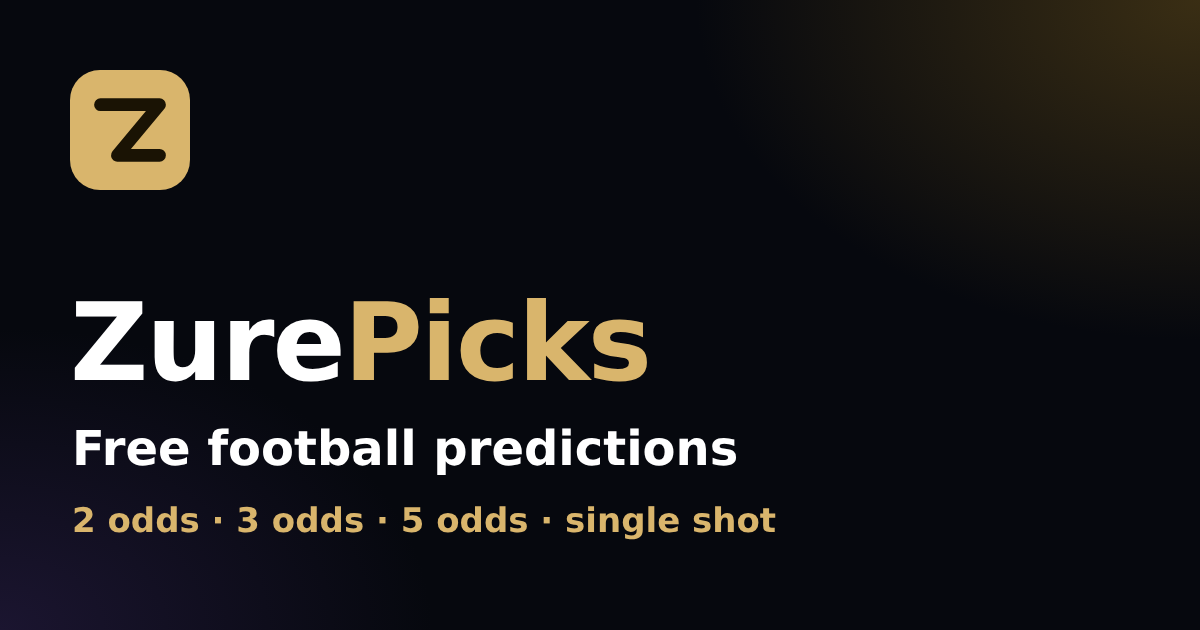
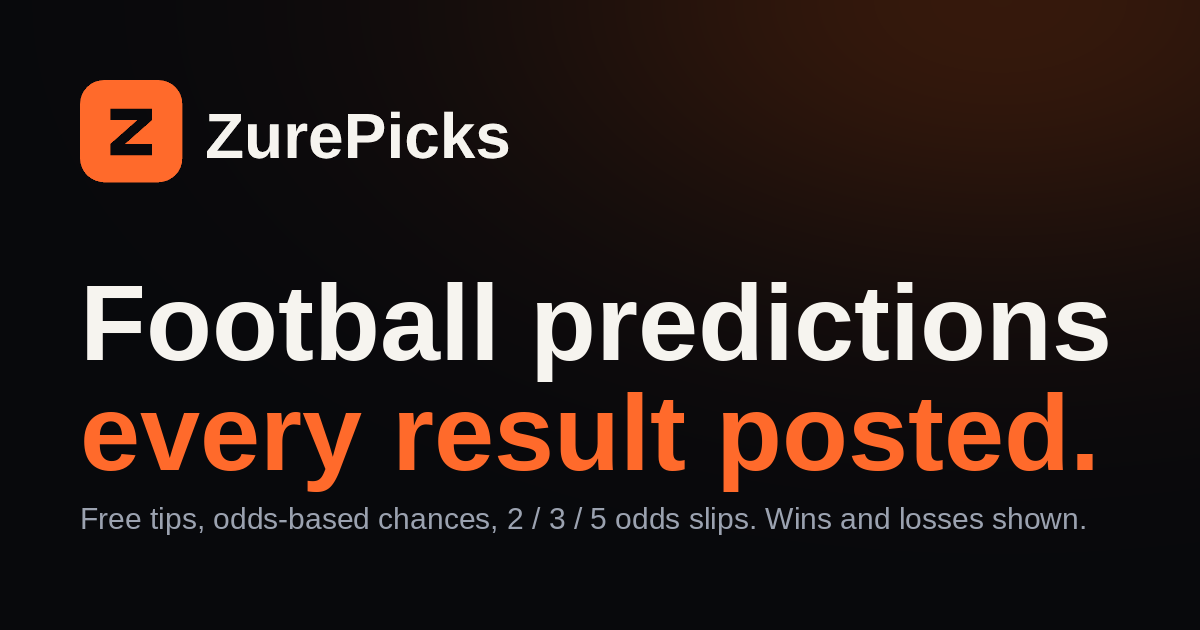
Add files via upload

diff --git a/zp.css b/zp.css
@@ -934,59 +934,106 @@ main.dayp .hero .kp>div{background:rgba(255,255,255,.04)!important;border:1px so
 main.dayp .hero .kp b{color:var(--g)!important;-webkit-text-fill-color:var(--g)!important;background:none!important}
 main.dayp .hero .kp>div.lv b{color:var(--no)!important;-webkit-text-fill-color:var(--no)!important}
 
-/* v9: landing top rebuilt: open hero, versus match card, one stat strip, no second Telegram logo */
-main.dayp .hero{background:radial-gradient(120% 90% at 0% 0%,rgba(46,240,162,.16),transparent 55%),radial-gradient(90% 80% at 100% 10%,rgba(124,92,255,.18),transparent 60%)!important;border:0!important;border-radius:0 0 28px 28px!important;box-shadow:none!important;padding:1.1rem 0 1.2rem!important;margin:0 -16px!important;padding-left:16px!important;padding-right:16px!important}
-main.dayp .hero .eyebrow{background:none!important;border:0!important;padding:0!important;color:var(--g)!important;font-size:.72rem!important;letter-spacing:.12em;text-transform:uppercase}
-main.dayp .hero h1{font-size:clamp(2.1rem,9.5vw,3.1rem)!important;line-height:1.02!important;letter-spacing:-.035em!important;margin:.35rem 0 .45rem!important}
-main.dayp .hero .lead{color:var(--mut)!important;font-size:1rem!important;margin:0 0 1rem!important}
-.potd-wrap{display:block;border:0;background:none;box-shadow:none;border-radius:0;overflow:visible}
-.potd-wrap .potd-hero{display:grid;gap:.85rem;padding:.9rem .95rem 1rem;border-radius:22px;background:linear-gradient(160deg,rgba(255,255,255,.09),rgba(255,255,255,.03));border:1px solid rgba(255,255,255,.14);box-shadow:0 22px 50px -28px rgba(0,0,0,.9),inset 0 1px 0 rgba(255,255,255,.12);backdrop-filter:none}
-.potd-wrap .potd-hero .pz-top{display:flex;justify-content:space-between;align-items:center;gap:.6rem}
-.potd-wrap .potd-hero .pz-ko{font-size:.68rem;color:var(--mut);white-space:nowrap;overflow:hidden;text-overflow:ellipsis;text-align:right;min-width:0}
-.potd-wrap .potd-hero .pz-teams{display:grid;grid-template-columns:1fr auto 1fr;align-items:start;gap:.4rem}
-.potd-wrap .potd-hero .pz-t{display:grid;justify-items:center;gap:.45rem;text-align:center;min-width:0}
-.potd-wrap .potd-hero .pz-t b{font:700 .88rem/1.2 var(--fd);color:var(--ink);display:-webkit-box;-webkit-line-clamp:2;-webkit-box-orient:vertical;overflow:hidden;overflow-wrap:anywhere}
-.potd-wrap .potd-hero .pz-teams em{font:800 .72rem var(--fd);font-style:normal;color:var(--mut);letter-spacing:.14em;align-self:center;padding:.2rem .45rem;border-radius:99px;border:1px solid rgba(255,255,255,.16);margin-top:-1.2rem}
-.potd-wrap .pzc{position:relative;display:grid;place-items:center;width:54px;height:54px;border-radius:50%;background:linear-gradient(145deg,rgba(46,240,162,.25),rgba(124,92,255,.3));border:1px solid rgba(255,255,255,.18);overflow:hidden}
-.potd-wrap .pzc i{font:800 1rem var(--fd);font-style:normal;color:var(--ink)}
-.potd-wrap .pzc img{position:absolute;inset:0;margin:auto;width:70%;height:70%;object-fit:contain}
-.potd-wrap .potd-hero .pp{display:flex;align-items:center;gap:.4rem;flex-wrap:wrap;justify-content:center;margin:0}
-.potd-wrap .potd-hero .pp i.zk{font-size:.82rem;background:var(--g);color:#031a10;border-color:var(--g);padding:.28rem .8rem}
-.potd-wrap .potd-hero .pp i.zc{font-size:.76rem;padding:.28rem .7rem}
-.potd-wrap .potd-hero .pp i.zo{font:800 .86rem var(--fd);padding:.26rem .8rem;color:var(--g);border-color:rgba(46,240,162,.5);background:rgba(46,240,162,.12)}
-.potd-wrap .potd-hero .pp i.zo::before{content:"odds ";font-weight:600;font-size:.66rem;color:var(--mut)}
-main.dayp .hero .kp{display:grid!important;grid-auto-flow:column;grid-auto-columns:1fr;gap:0!important;margin-top:.9rem!important;border:1px solid rgba(255,255,255,.12);border-radius:18px;background:rgba(255,255,255,.04);overflow:hidden}
-main.dayp .hero .kp>div{background:none!important;border:0!important;border-radius:0!important;border-left:1px solid rgba(255,255,255,.1)!important;padding:.7rem .7rem!important}
-main.dayp .hero .kp>div:first-child{border-left:0!important}
-main.dayp .hero .kp b{font-size:1.35rem!important}
-main.dayp .hero .kp span{font-size:.7rem!important}
-@media(min-width:760px){main.dayp .hero{margin:0!important;border-radius:28px!important}.potd-wrap{max-width:520px}}
-main.dayp .hero .eyebrow{letter-spacing:.06em!important;font-size:.68rem!important;display:flex!important;align-items:center;gap:.4rem;white-space:nowrap}
-main.dayp .hero .eyebrow::before{content:"";width:7px;height:7px;border-radius:50%;background:var(--g);box-shadow:0 0 10px var(--g);flex:none}
-main.dayp .hero .eyebrow>*:first-child{flex:none}
-/* v10: home top: kick-off ticker, date line, two buttons */
-.tick{display:flex;align-items:stretch;margin:-1.1rem -16px 1rem;border-bottom:1px solid rgba(255,255,255,.1);background:rgba(255,255,255,.03);overflow:hidden}
-.tick[hidden]{display:none}
-.tick .tk-l{flex:none;display:flex;align-items:center;padding:0 .8rem;font:800 .66rem var(--fd);letter-spacing:.1em;text-transform:uppercase;color:var(--g);border-right:1px solid rgba(255,255,255,.1);background:rgba(46,240,162,.07)}
-.tick .tk-r{display:flex;gap:0;overflow-x:auto;scrollbar-width:none;-webkit-overflow-scrolling:touch}
-.tick .tk-r::-webkit-scrollbar{display:none}
-.tick .tk-r a{flex:none;display:flex;align-items:center;gap:.5rem;padding:.65rem .9rem;color:var(--ink);text-decoration:none;font-size:.8rem;border-right:1px solid rgba(255,255,255,.07);white-space:nowrap}
-.tick .tk-r a b{font:800 .84rem var(--fd);color:var(--g)}.tick .tk-r a b.lv{color:var(--no)}
-.tick .tk-r a i{font-style:normal;color:var(--mut);padding:0 .1rem}
-main.dayp .hero .eyebrow.dl{color:var(--mut)!important;text-transform:none;letter-spacing:0!important;font-size:.9rem!important;font-weight:600}
-main.dayp .hero .eyebrow.dl::before{display:none}
-.cta-row{display:flex;flex-wrap:wrap;gap:.6rem;margin:0 0 1.1rem}
-.cta-row .btn{display:inline-flex;align-items:center;justify-content:center;padding:.8rem 1.25rem;border-radius:14px;font:700 .95rem var(--fd);text-decoration:none;min-height:46px}
-.cta-row .btn.pri{background:var(--gold);color:#031a10;box-shadow:0 12px 26px -14px rgba(46,240,162,.9)}
-.cta-row .btn.ghost{border:1px solid rgba(255,255,255,.22);color:var(--ink);background:rgba(255,255,255,.04)}
-.hero.home{grid-template-areas:"tk tk" "eb bn" "h1 bn" "ld bn" "cr bn" "cta bn" "kp kp"!important}
-.hero.home .tick{grid-area:tk}.hero.home .cta-row{grid-area:cr}
-.hero.home .tick{border-radius:14px;margin:0 0 1.1rem;border:1px solid rgba(255,255,255,.1)}
-@media(max-width:760px){.hero.home{grid-template-columns:minmax(0,1fr)!important;grid-template-areas:"tk" "eb" "h1" "ld" "cr" "cta" "kp" "bn"!important}.hero.home .tick{margin:-1.1rem -16px 1rem;border-radius:0;border-width:0 0 1px}}
-/* v11: smoother landing */
-main.dayp .hero .kp,main.dayp .hero .kp>div{backdrop-filter:none!important;-webkit-backdrop-filter:none!important}
-main.dayp .hero .kp{background:rgba(255,255,255,.05);clip-path:inset(0 round 18px)}
-main.dayp .hero .kp>div{background:transparent!important}
-.hero.home .lead{margin-bottom:1.1rem!important}
-@keyframes zup{from{opacity:0;transform:translateY(10px)}to{opacity:1;transform:none}}
-@media(prefers-reduced-motion:no-preference){.hero.home .eyebrow,.hero.home h1,.hero.home .lead,.hero.home .potd-wrap,.hero.home .kp{animation:zup .55s cubic-bezier(.2,.7,.2,1) both}.hero.home h1{animation-delay:.05s}.hero.home .lead{animation-delay:.1s}.hero.home .potd-wrap{animation-delay:.16s}.hero.home .kp{animation-delay:.24s}}
+/* =====================================================================
+   v10 "Obsidian + signal": near-black ink, ivory type, one hot orange for brand and action.
+   Green is kept for picks and wins, so the two never compete. Condensed display type reads like a broadcast score bug.
+   ===================================================================== */
+:root{
+  --bg:#08090c;--bg2:#0d0f14;--card:#12151b;--card2:#191d25;--ink:#f6f4ef;--mut:#9ba2b0;--no:#ff5c73;
+  --au:#ff6a2b;--au2:#ffb594;--au3:#e04e12;--aui:#1c0a02;--g:#35d88f;--gi:#04130b;--pk:rgba(53,216,143,.12);--pu:#8ab4ff;--vio:#8ab4ff;
+  --gold:linear-gradient(135deg,#ff8a50 0%,#ff6a2b 55%,#e04e12 100%);--mintgold:linear-gradient(90deg,#ff8a50,#ffb594);
+  --fd:"Barlow Condensed","Arial Narrow","Roboto Condensed",system-ui,sans-serif;--fb:"Figtree","Segoe UI",system-ui,-apple-system,sans-serif;--fn:"Barlow Condensed","Arial Narrow",system-ui,sans-serif;
+  --line:rgba(255,255,255,.085);--line2:rgba(255,255,255,.16);--r:14px;
+}
+html{background:var(--bg)}
+body{background:var(--bg);background-image:radial-gradient(900px 420px at 80% -120px,rgba(255,106,43,.10),transparent 70%),radial-gradient(700px 400px at -10% 0,rgba(138,180,255,.06),transparent 70%);background-attachment:scroll;font-family:var(--fb);font-size:16px;color:var(--ink)}
+body::before,body::after{display:none!important}
+::selection{background:var(--au);color:var(--aui)}
+a{color:var(--au2)}a:hover{color:#fff}
+:focus-visible{outline:2px solid var(--au);outline-offset:2px}
+.skip{position:absolute;left:-999px;top:8px;background:var(--au);color:var(--aui);padding:.6rem 1rem;border-radius:10px;font-weight:800;z-index:99}.skip:focus{left:12px}
+
+/* ---- display type ---- */
+h1,h2,h3,.logo,.kp b,.cbx .ch b,.sh b{font-family:var(--fd)}
+h1{font-weight:700;letter-spacing:-.01em;line-height:.98;font-size:clamp(2.6rem,9.5vw,4.6rem);text-transform:none}
+h1 em,h1 .g,h1 span{font-style:normal;background:none;-webkit-text-fill-color:currentColor;color:var(--au)}
+h2{font-weight:700;letter-spacing:-.005em;line-height:1.05;font-size:clamp(1.7rem,5vw,2.4rem);text-transform:none}
+h3{font-weight:700;letter-spacing:0;line-height:1.15;text-transform:none}
+.eyebrow{font-family:var(--fb);font-weight:700;font-size:.78rem;letter-spacing:0;text-transform:none;color:var(--au2);background:rgba(255,106,43,.1);border:1px solid rgba(255,106,43,.3);border-radius:999px;padding:.32rem .8rem;display:inline-flex;gap:.5rem;align-items:center}
+.eyebrow::before{background:var(--au)!important;box-shadow:0 0 0 4px rgba(255,106,43,.2)!important}
+.lead{font-size:1.08rem;line-height:1.55;color:#c9ced8;max-width:60ch}
+.by{margin:.9rem 0 0;font-size:.84rem;color:var(--mut)}.by a{color:var(--ink);text-decoration:underline;text-underline-offset:3px}
+.crumbs{font-size:.78rem;color:var(--mut);margin-top:1.1rem}.crumbs a{color:var(--mut)}
+
+/* ---- header ---- */
+header{background:rgba(8,9,12,.88);backdrop-filter:blur(16px);border-bottom:1px solid var(--line);border-image:none}
+header .w{height:62px}
+.logo{font-size:1.5rem;letter-spacing:-.01em;font-weight:700;gap:.6rem}
+.logo i{width:34px;height:34px;border-radius:9px;background:var(--au);color:var(--aui);font-size:1.25rem;font-weight:800;box-shadow:none;font-family:var(--fd);position:relative}
+.logo i::after{content:"";position:absolute;right:-3px;bottom:-3px;width:10px;height:10px;border-radius:50%;background:var(--g);border:2px solid var(--bg)}
+header nav a,nav a{font-weight:600;color:var(--mut);border-radius:8px}
+nav a:hover{background:rgba(255,255,255,.06);color:var(--ink)}
+nav a[aria-current],nav a[aria-current][href="ai-betting-assistant.html"]{background:rgba(255,106,43,.14);color:var(--au2);-webkit-text-fill-color:var(--au2);box-shadow:inset 0 0 0 1px rgba(255,106,43,.4)}
+nav a[href="ai-betting-assistant.html"]{background:none;color:var(--au2);-webkit-text-fill-color:var(--au2)}
+.livepill{background:rgba(255,92,115,.1);border:1px solid rgba(255,92,115,.4);color:#ff8fa0}
+.tgbtn{background:#229ed9}
+.age{border-color:rgba(255,92,115,.5);color:#ff8fa0}
+
+/* ---- hero + KPI tiles ---- */
+.hero,.hero.art{background:linear-gradient(160deg,#171a22,#0e1015 70%);border:1px solid var(--line2);border-radius:22px;box-shadow:0 24px 60px -30px rgba(0,0,0,.9);position:relative;overflow:hidden}
+.hero::before,.hero.art::before{content:"";position:absolute;inset:0;background:repeating-linear-gradient(90deg,transparent 0 56px,rgba(255,255,255,.022) 56px 112px);pointer-events:none}
+.hero::after{display:none}
+.hero>*{position:relative}
+.kp{display:grid;grid-template-columns:repeat(3,minmax(0,1fr));gap:.6rem}
+.kp>*{background:rgba(255,255,255,.035);border:1px solid var(--line);border-radius:12px;padding:.8rem .9rem;box-shadow:none}
+.kp b{font-family:var(--fd);font-size:2rem;font-weight:700;line-height:1;color:var(--ink);letter-spacing:0;font-variant-numeric:tabular-nums}
+.kp span{color:var(--mut);font-size:.76rem}
+.kp .g,.kp b.g{color:var(--g)}
+.mx-strip>*{background:var(--card);border:1px solid var(--line);border-radius:12px}
+.mx-strip b{font-family:var(--fd);font-size:1.7rem;color:var(--ink);font-weight:700}
+
+/* ---- buttons ---- */
+.btn,.mega,.cta2 a,button.go{font-family:var(--fb);font-weight:800;border-radius:12px;letter-spacing:0}
+.btn.p,.mega,.btn.primary{background:var(--au);color:var(--aui);border:0;box-shadow:0 10px 26px -12px rgba(255,106,43,.8)}
+.btn.p:hover,.mega:hover{background:#ff8048;color:var(--aui)}
+.btn{background:rgba(255,255,255,.05);border:1px solid var(--line2);color:var(--ink)}
+.btn:hover{border-color:var(--au);color:#fff}
+
+/* ---- section heads ---- */
+main h2{margin-top:2.6rem;padding-top:0}
+main h2::before{content:"";display:block;width:34px;height:4px;border-radius:2px;background:var(--au);margin-bottom:.7rem}
+.hero h2::before,.faq h2::before{margin-bottom:.6rem}
+.mut,.cn{color:var(--mut)}
+
+/* ---- tabs / chips ---- */
+.scr a,.scr button,.chip,#days a,#mkts button,#mkts a{background:var(--card);border:1px solid var(--line);color:var(--mut);border-radius:999px;font-weight:700}
+.scr a[aria-current],.scr .on,.scr button.on,#days .on,#mkts .on,.chip.on{background:var(--au);border-color:var(--au);color:var(--aui)}
+
+/* ---- cards ---- */
+.card,.sgl,.cbx,.mx-card,.tool,.lgcard,.lc{background:var(--card);border:1px solid var(--line);border-radius:var(--r);box-shadow:none}
+.sgl:hover,.lgcard:hover,.cbx:hover{border-color:rgba(255,106,43,.5)}
+
+/* ---- prose, tables, FAQ ---- */
+.prose{max-width:74ch}
+.prose h2{margin-top:2.2rem}
+.prose p,.prose li{font-size:1.04rem;line-height:1.7;color:#cfd4de}
+.prose a{color:var(--au2);text-decoration:underline;text-underline-offset:3px}
+table{border-collapse:collapse}th{font-family:var(--fb);font-size:.72rem;letter-spacing:.02em;color:var(--mut);font-weight:700}
+.faq{margin-top:2.8rem}.faq-g{display:grid;gap:0 2.4rem}
+@media(min-width:860px){.faq-g{grid-template-columns:repeat(2,minmax(0,1fr))}}
+.faq-i{padding:1rem 0;border-top:1px solid var(--line)}
+.faq-i h3{font-family:var(--fb);font-size:1.02rem;font-weight:700;margin:0 0 .4rem;color:var(--ink)}
+.faq-i p{margin:0;color:#b8bfcc;font-size:.96rem;line-height:1.6}
+
+/* ---- footer + tab bar ---- */
+.tabbar{background:rgba(10,11,15,.94);backdrop-filter:blur(14px);border-top:1px solid var(--line)}
+.tabbar a{color:var(--mut)}.tabbar a[aria-current]{color:var(--au)}
+
+/* ---- pick of the day ---- */
+.potd-hero{background:linear-gradient(135deg,#1c2028,#12151b);border:1px solid var(--line2);border-left:4px solid var(--au);border-radius:14px;color:var(--ink);box-shadow:none}
+.potd-hero .pt{color:var(--au2);font-weight:700;letter-spacing:0;text-transform:none}
+.potd-hero .pt span{color:var(--au)}
+.potd-hero b{font-family:var(--fd);font-size:1.7rem;font-weight:700;letter-spacing:0;line-height:1.05;color:var(--ink)}
+.potd-hero b em{color:var(--mut);font-style:normal;font-family:var(--fb);font-size:.8rem;font-weight:600;margin:0 .2rem}
+.potd-hero .pp i{background:rgba(53,216,143,.14);border:1px solid rgba(53,216,143,.4);color:var(--g);font-style:normal;font-weight:700;border-radius:999px;padding:.15rem .6rem;font-size:.8rem}
+.potd-hero:hover{border-color:var(--au)}

diff --git a/ZUREPICK-V10-NOTES.md b/ZUREPICK-V10-NOTES.md
@@ -1,0 +1,35 @@
+# ZurePicks v10: design and SEO notes
+
+## Important: change these in the generator, not in the HTML
+Your GitHub Action rebuilds every page every 10 minutes. Anything edited directly in a `.html` file is overwritten.
+This update changes `build-pages.mjs`, `zp.css`, `site-settings.mjs`, the icons and `og.png`, so it survives every rebuild.
+
+## Design (zp.css, last section "v10")
+- New identity: near-black ink, ivory type, one signal orange for brand and actions. Green is kept only for picks and wins, so they never compete with the brand colour.
+- Condensed display type (Barlow Condensed) for headlines and numbers, Figtree for reading. Two font families instead of three, which loads faster.
+- New logo mark, favicon, app icons and share image (WhatsApp/Telegram previews).
+- Pick of the day card, hero, KPI tiles, buttons, chips, FAQ and footer restyled; every other module inherits the new tokens.
+
+## SEO changes (build-pages.mjs)
+- Titles are fitted to about 60 characters (the brand moves to og:site_name and the WebSite markup when space is short). Descriptions are trimmed to 158.
+- Structured data: Organization with logo and Telegram, WebSite, WebPage with dateModified, Article with author on every guide, ItemList on board pages, BreadcrumbList, FAQPage.
+- The sitemap no longer says "changed today" for every URL. Guides and info pages keep a fixed date (`contentUpdated` in site-settings.mjs); data pages use the day. Google ignores sitemaps whose dates are always today.
+- FAQs are visible on the page instead of collapsed.
+- Author byline and "Reviewed" date on guides and info pages (an E-E-A-T signal).
+- Twitter tags, og:image size and alt text, hreflang, max-snippet, skip link, `<main id>`, and a fixed `</nav>` tag.
+
+## The biggest SEO issue I could not fix in code
+The site lives at `sidolly20.github.io/zurepick-site/`. That is a shared github.io address in a sub-folder:
+1. Google only reads `robots.txt` at the root of the host, so the one in `/zurepick-site/` is ignored.
+2. Your brand has no domain of its own to build trust or links on, and links you earn belong to github.io.
+3. Moving later loses ranking history.
+**Best fix: buy a domain now.** Steps: add it in GitHub Pages settings; add a `CNAME` file with the domain; set `SITE_URL` in `.github/workflows/update.yml` and `SITE` in `site-settings.mjs` to it; add the new domain as a property in Search Console and submit `sitemap.xml`.
+
+## What only you can do
+- Backlinks and mentions from other football sites matter most for a new site.
+- Watch Search Console "Pages" for "Crawled, currently not indexed".
+- About 1,140 old finished-match pages are marked noindex on purpose (they are stale). Keep it that way.
+- Confirm the author name and role on the About page match what you want shown on guides.
+- I could not load Google Fonts in my sandbox, so check the condensed headline font once deployed.
+
+No change can guarantee rankings. These remove what holds the site back and add the structure Google rewards over weeks.
